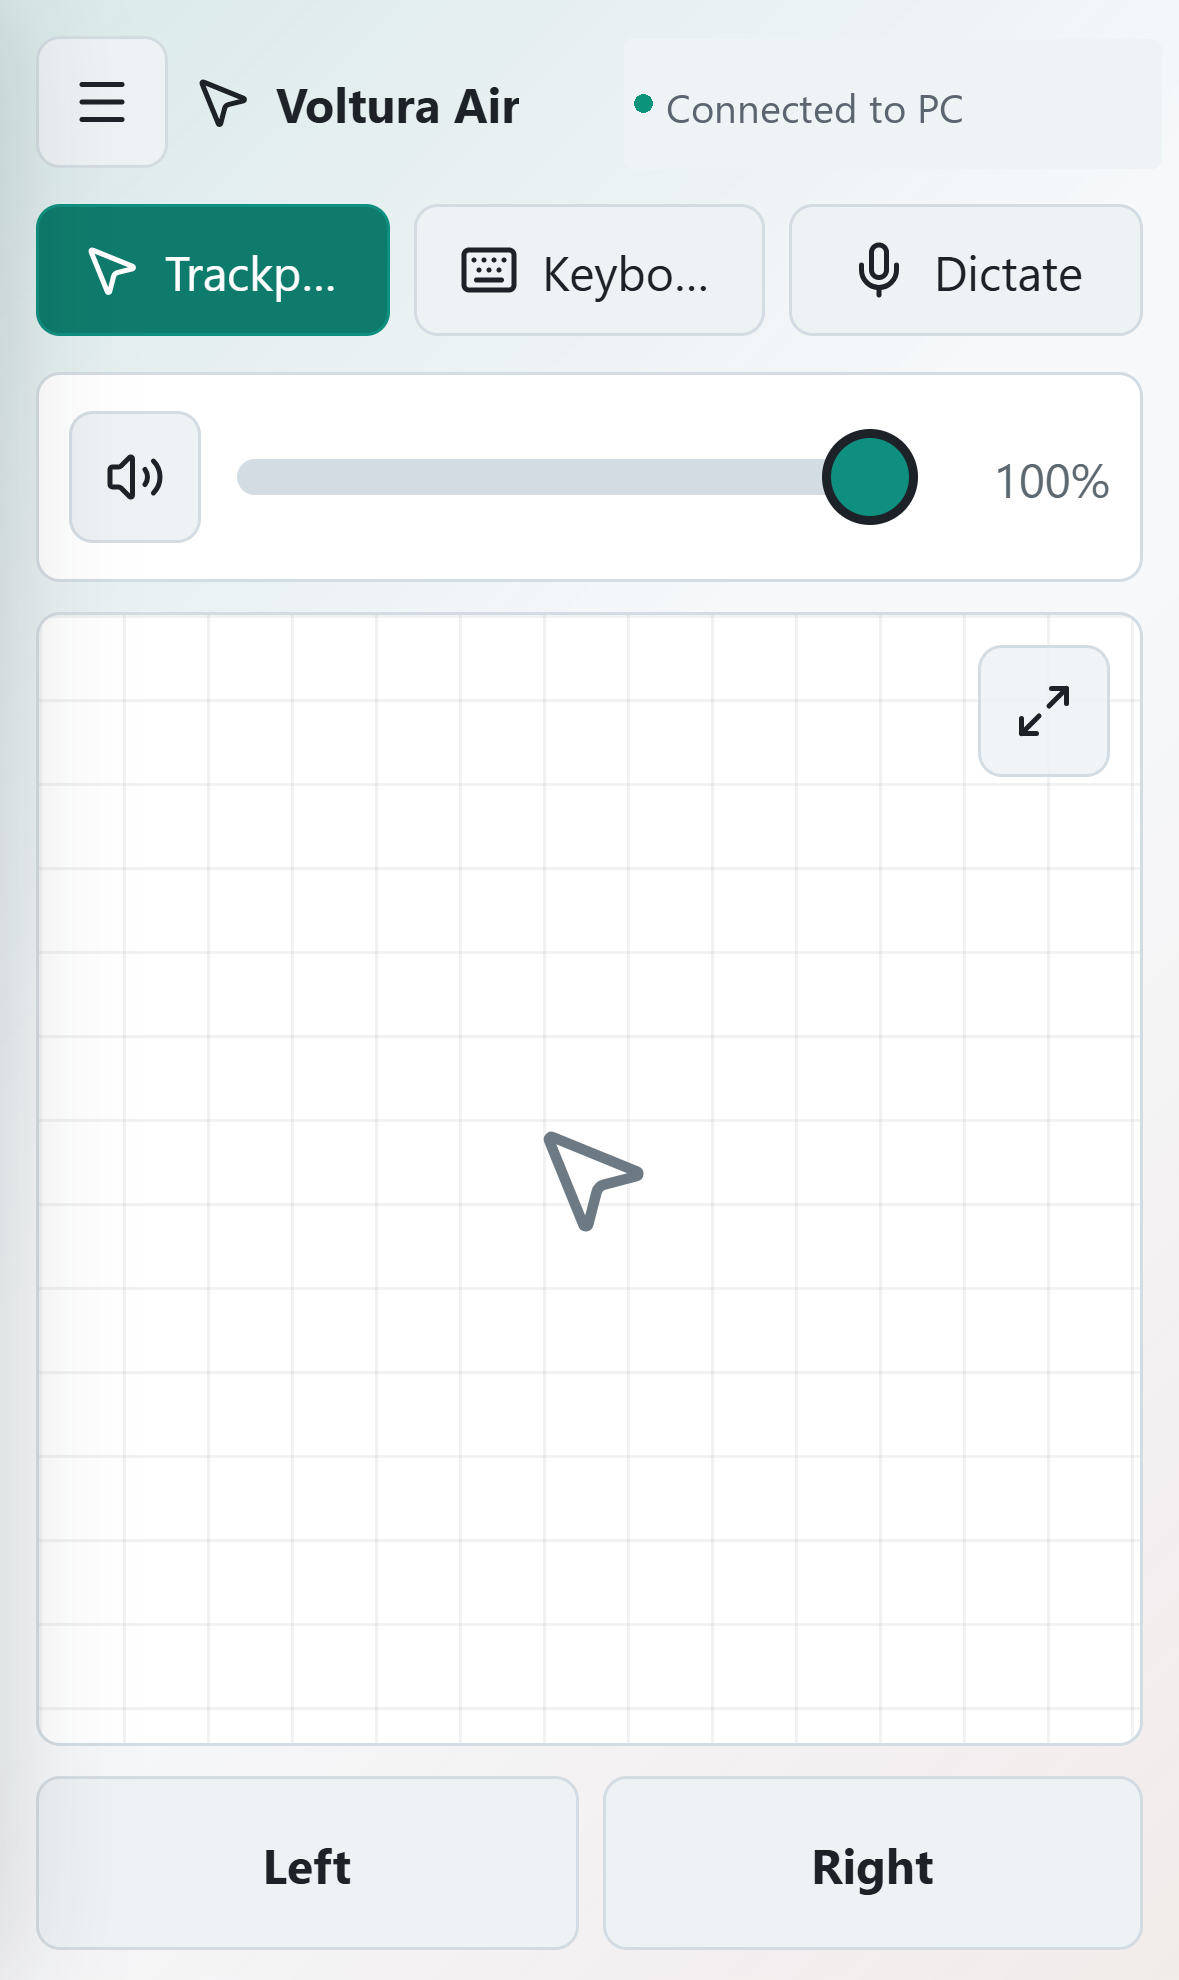
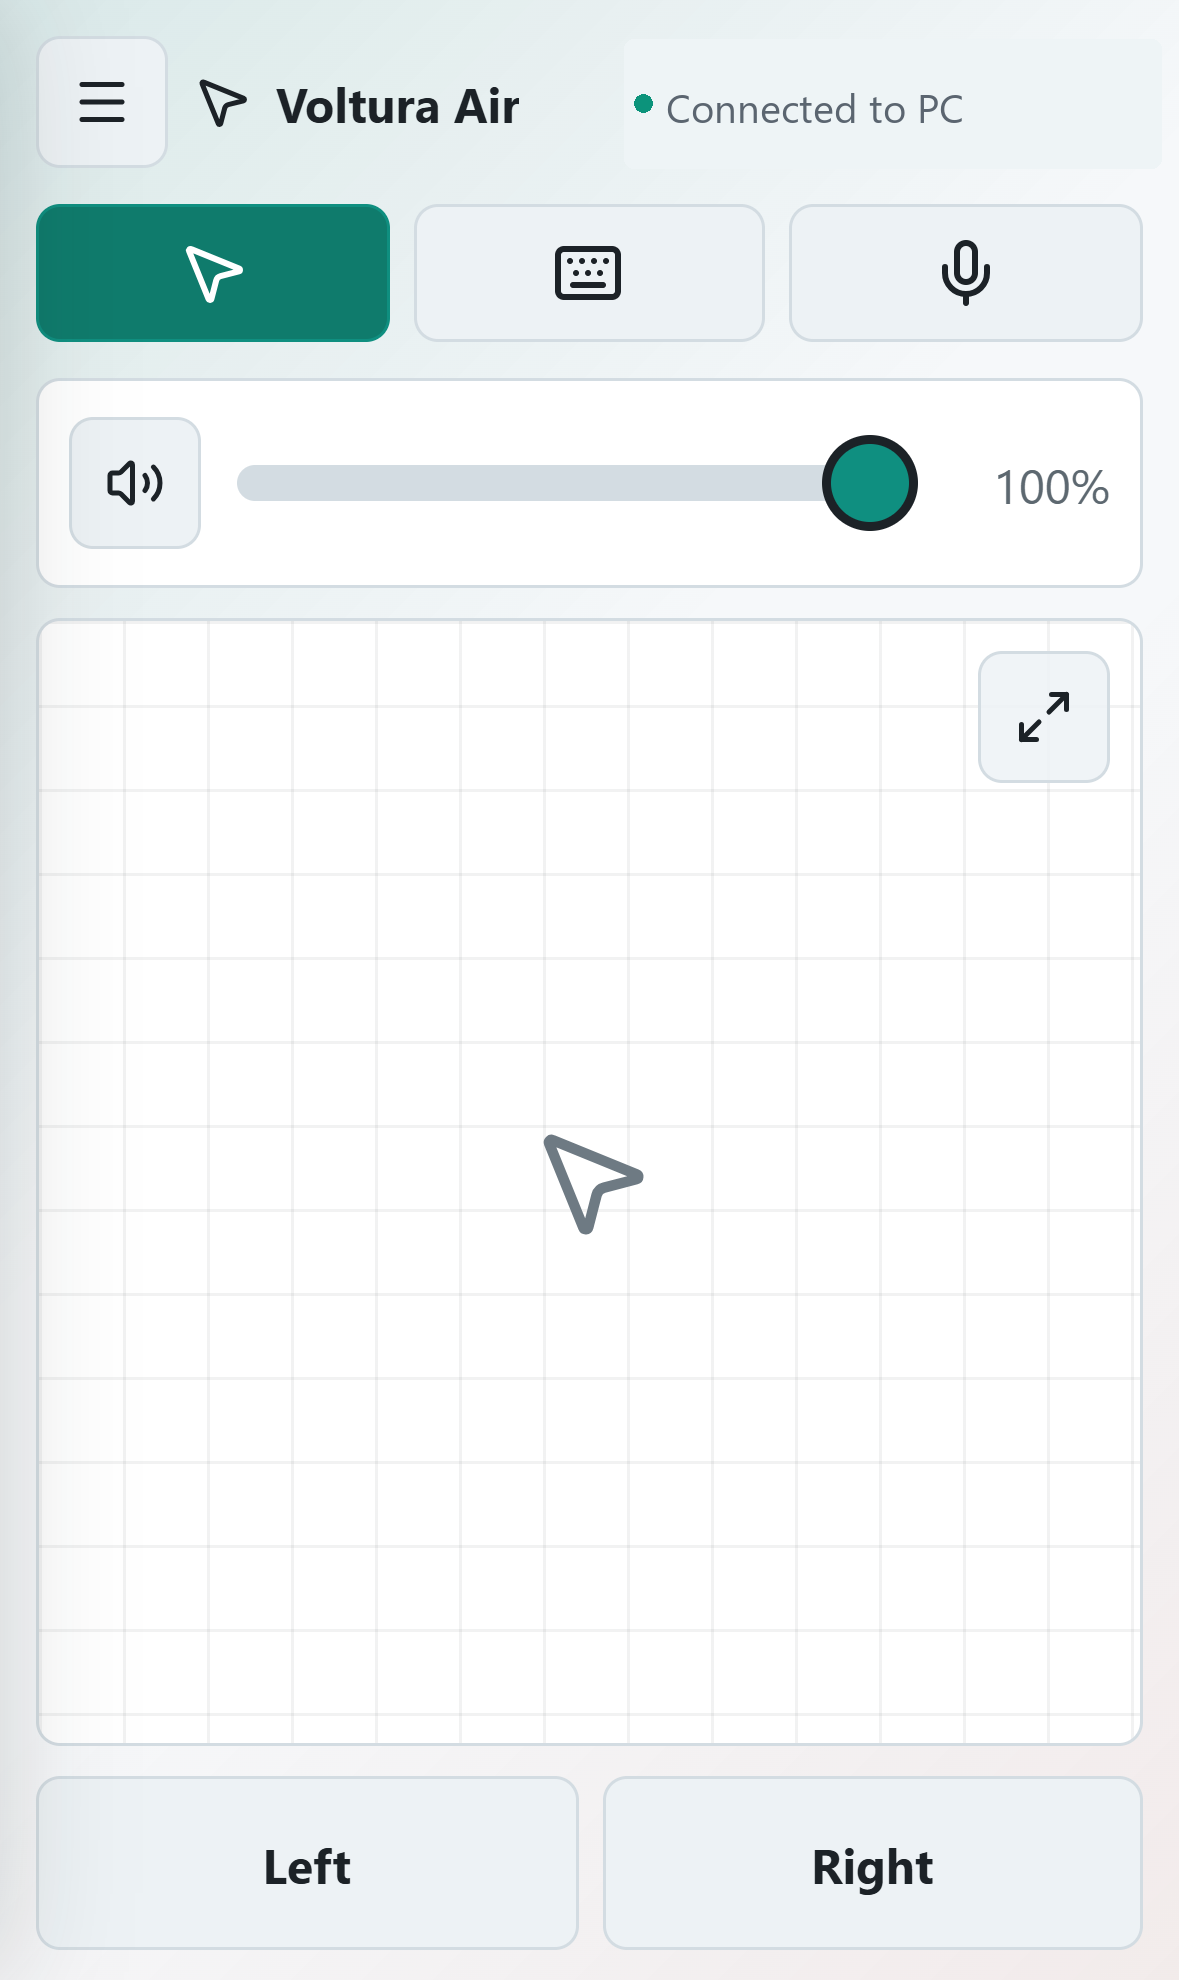
Document screenshot capture and refine mobile tabs

diff --git a/apps/mobile-web/src/styles.css b/apps/mobile-web/src/styles.css
@@ -236,6 +236,27 @@ button span {
   min-width: 0;
 }
 
+@media (max-width: 430px) {
+  .tabs button {
+    gap: 0;
+    padding-inline: 8px;
+  }
+
+  .tabs button span {
+    position: absolute;
+    width: 1px;
+    height: 1px;
+    overflow: hidden;
+    clip: rect(0 0 0 0);
+    white-space: nowrap;
+  }
+
+  .tabs button svg {
+    width: 24px;
+    height: 24px;
+  }
+}
+
 .drawer-scrim {
   position: fixed;
   inset: 0;

diff --git a/docs/screenshots.md b/docs/screenshots.md
@@ -1,0 +1,93 @@
+# Screenshot and Installer Artwork Capture
+
+This repo keeps public product screenshots in `docs/site/assets` and NSIS
+installer artwork in `installer/assets`.
+
+## Tools Used
+
+- Windows host debug/release build from `apps/windows-host`.
+- Chrome for deterministic browser captures.
+- Playwright installed in a temporary capture folder, not as a repo dependency.
+- Python with Pillow from the Codex bundled runtime for image post-processing.
+- The temporary Node `qrcode` package for replacing the host pairing QR with a
+  public QR for `https://voltura.se/air`.
+
+The temporary capture workspace used during the rebrand was:
+
+```powershell
+$tempDir = Join-Path $env:TEMP "voltura-air-capture"
+```
+
+## Host Capture
+
+The Windows host supports light, dark, and system modes through the in-app
+settings. For screenshot automation, set the registry value before launching:
+
+```powershell
+New-Item -Path HKCU:\Software\VolturaAir -Force | Out-Null
+Set-ItemProperty -Path HKCU:\Software\VolturaAir -Name ThemeMode -Value Light -Type String
+Set-ItemProperty -Path HKCU:\Software\VolturaAir -Name ThemeMode -Value Dark -Type String
+Set-ItemProperty -Path HKCU:\Software\VolturaAir -Name ThemeMode -Value System -Type String
+```
+
+The host has a developer automation flag for writing the current pairing URL to
+a local file:
+
+```powershell
+apps\windows-host\bin\Debug\net10.0-windows\VolturaAir.Host.exe `
+  --pairing-url-file "$tempDir\pairing-url.txt"
+```
+
+For public host screenshots, capture the real window and replace only the QR
+bitmap with a QR that points to `https://voltura.se/air`. Do not publish a live
+pairing token, LAN address, or machine-specific QR.
+
+## Mobile Client Capture
+
+Use the pairing URL written by the host to open the real PWA in Chrome via
+Playwright, click **Pair**, and wait for the connected state.
+
+Recommended viewport sizes:
+
+```text
+iPhone: 393 x 852
+iPad:   820 x 1180
+```
+
+Capture light mode first, then set dark mode in local storage and reload:
+
+```js
+await page.evaluate(() => localStorage.setItem("voltura-air.themeMode", "dark"));
+await page.reload({ waitUntil: "networkidle" });
+```
+
+Before committing public screenshots, replace any local PC name in the status
+label with a neutral label such as `Connected to PC`.
+
+## Output Files
+
+Static site assets:
+
+```text
+docs/site/assets/voltura-air-host.png
+docs/site/assets/voltura-air-host-dark.png
+docs/site/assets/voltura-air-iphone.png
+docs/site/assets/voltura-air-iphone-dark.png
+docs/site/assets/voltura-air-ipad.png
+docs/site/assets/voltura-air-ipad-dark.png
+```
+
+Installer artwork:
+
+```text
+installer/assets/installer-header.bmp
+installer/assets/installer-welcome.bmp
+```
+
+After refreshing screenshots or installer artwork, run:
+
+```powershell
+npm run build
+npm test
+npm run package:win
+```